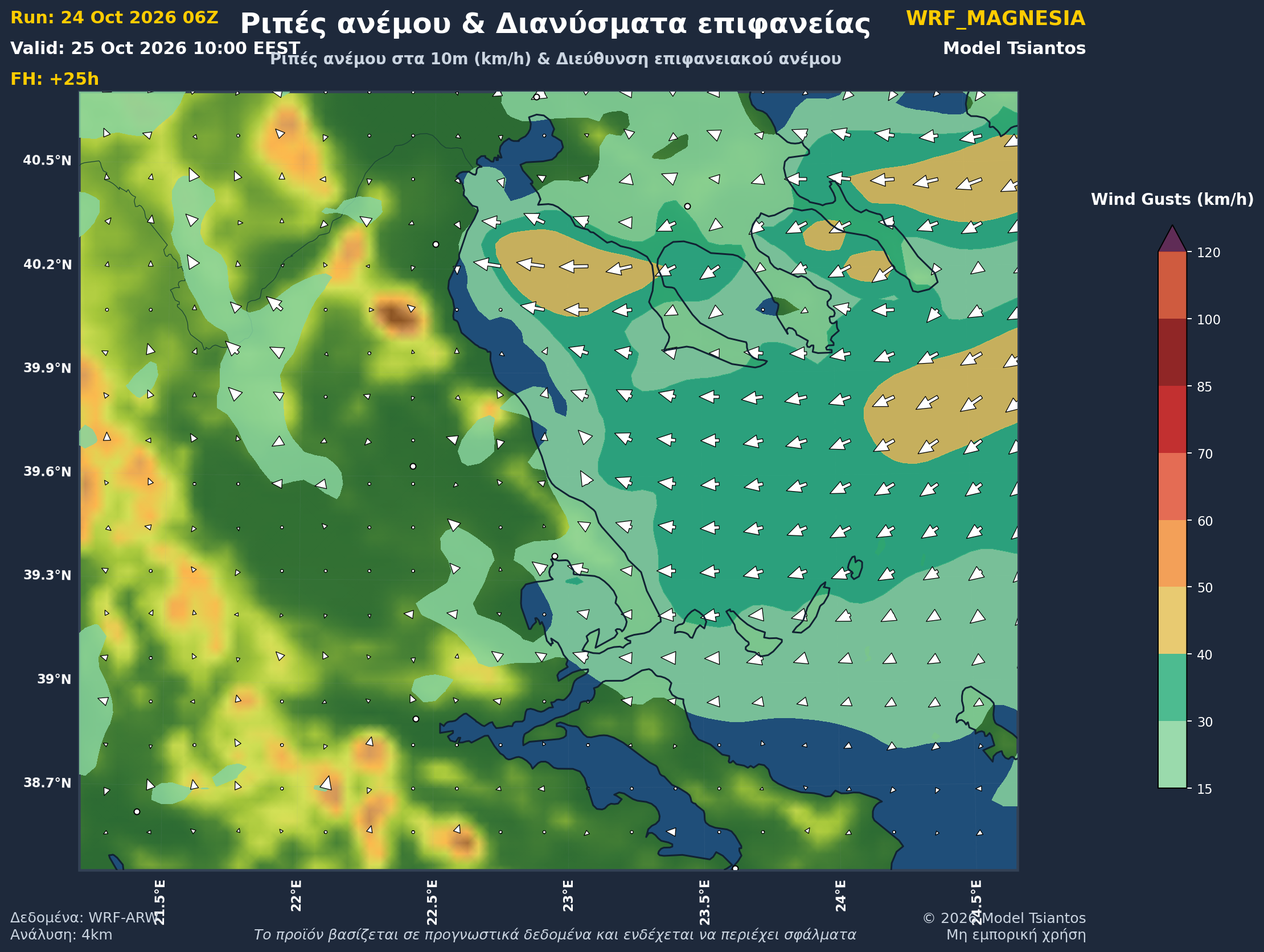
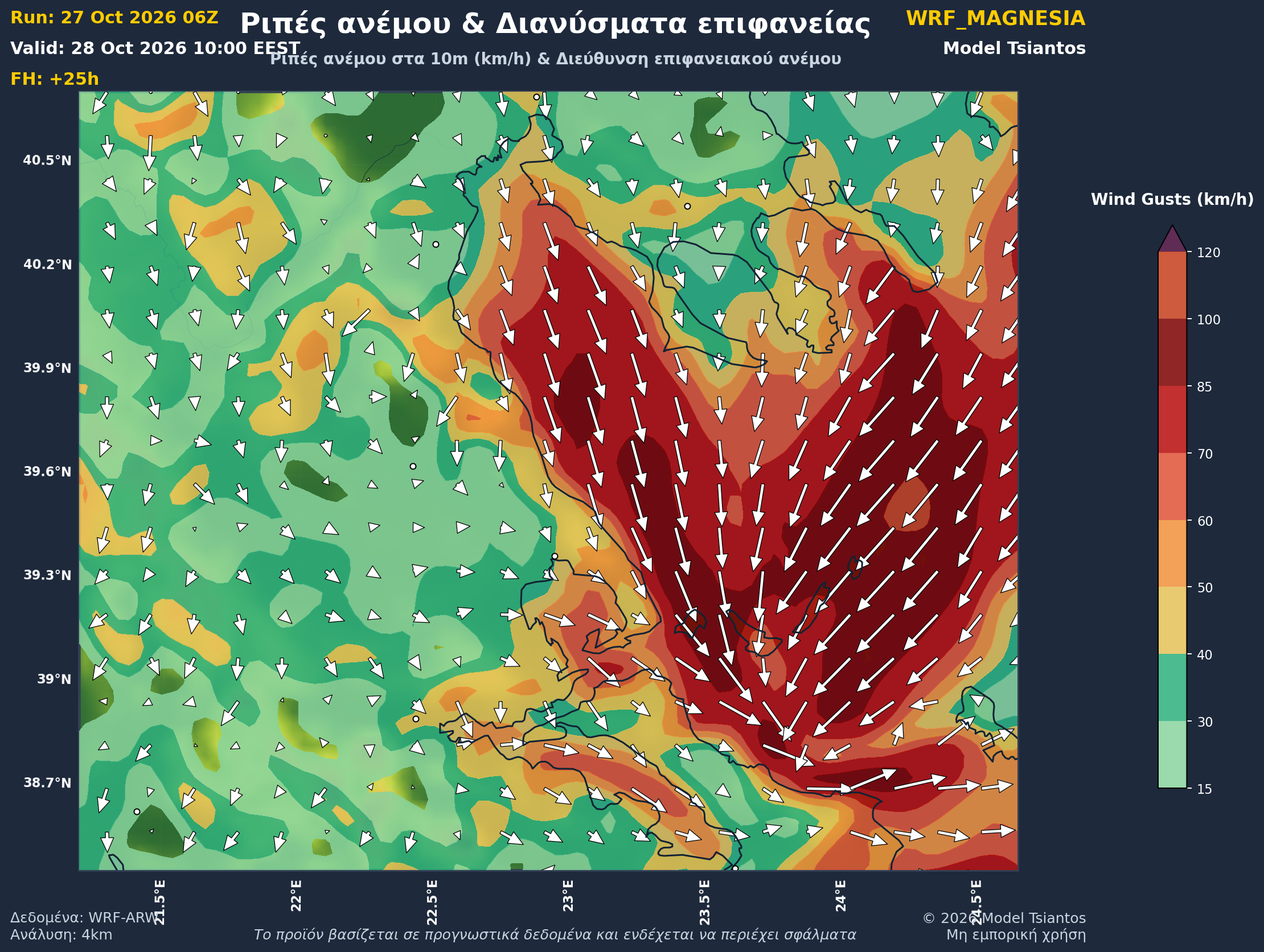
Update all WRF forecast maps

diff --git a/index.html b/index.html
@@ -485,7 +485,7 @@ const tabs=Array.from(document.querySelectorAll(".tab"));
 const title=document.getElementById("mapTitle"),validTime=document.getElementById("validTime"),slider=document.getElementById("hourSlider"),prev=document.getElementById("prevBtn"),next=document.getElementById("nextBtn"),placeholder=document.getElementById("mapPlaceholder"),image=document.getElementById("mapImage"),caption=document.getElementById("mapCaption"),statusText=document.getElementById("statusText");
 // Στο επόμενο βήμα θα βάλουμε εδώ τις δημόσιες διευθύνσεις των πραγματικών εικόνων WRF.
 // Παράδειγμα: rain:[{hour:0,url:"maps/rain_fh00.png",label:"..."}]
-const maps={"temp":[{"hour":23,"url":"maps/temp/Temp2m_LandRelief_FH23h.png","label":"+23 ώρες","valid":"Πρόγνωση +23 h","caption":"WRF MAGNESIA — +23 ώρες"},{"hour":24,"url":"maps/temp/Temp2m_LandRelief_FH24h.png","label":"+24 ώρες","valid":"Πρόγνωση +24 h","caption":"WRF MAGNESIA — +24 ώρες"},{"hour":25,"url":"maps/temp/Temp2m_LandRelief_FH25h.png","label":"+25 ώρες","valid":"Πρόγνωση +25 h","caption":"WRF MAGNESIA — +25 ώρες"},{"hour":26,"url":"maps/temp/Temp2m_LandRelief_FH26h.png","label":"+26 ώρες","valid":"Πρόγνωση +26 h","caption":"WRF MAGNESIA — +26 ώρες"},{"hour":27,"url":"maps/temp/Temp2m_LandRelief_FH27h.png","label":"+27 ώρες","valid":"Πρόγνωση +27 h","caption":"WRF MAGNESIA — +27 ώρες"},{"hour":28,"url":"maps/temp/Temp2m_LandRelief_FH28h.png","label":"+28 ώρες","valid":"Πρόγνωση +28 h","caption":"WRF MAGNESIA — +28 ώρες"},{"hour":29,"url":"maps/temp/Temp2m_LandRelief_FH29h.png","label":"+29 ώρες","valid":"Πρόγνωση +29 h","caption":"WRF MAGNESIA — +29 ώρες"},{"hour":30,"url":"maps/temp/Temp2m_LandRelief_FH30h.png","label":"+30 ώρες","valid":"Πρόγνωση +30 h","caption":"WRF MAGNESIA — +30 ώρες"},{"hour":31,"url":"maps/temp/Temp2m_LandRelief_FH31h.png","label":"+31 ώρες","valid":"Πρόγνωση +31 h","caption":"WRF MAGNESIA — +31 ώρες"},{"hour":32,"url":"maps/temp/Temp2m_LandRelief_FH32h.png","label":"+32 ώρες","valid":"Πρόγνωση +32 h","caption":"WRF MAGNESIA — +32 ώρες"},{"hour":33,"url":"maps/temp/Temp2m_LandRelief_FH33h.png","label":"+33 ώρες","valid":"Πρόγνωση +33 h","caption":"WRF MAGNESIA — +33 ώρες"},{"hour":34,"url":"maps/temp/Temp2m_LandRelief_FH34h.png","label":"+34 ώρες","valid":"Πρόγνωση +34 h","caption":"WRF MAGNESIA — +34 ώρες"},{"hour":35,"url":"maps/temp/Temp2m_LandRelief_FH35h.png","label":"+35 ώρες","valid":"Πρόγνωση +35 h","caption":"WRF MAGNESIA — +35 ώρες"},{"hour":36,"url":"maps/temp/Temp2m_LandRelief_FH36h.png","label":"+36 ώρες","valid":"Πρόγνωση +36 h","caption":"WRF MAGNESIA — +36 ώρες"},{"hour":37,"url":"maps/temp/Temp2m_LandRelief_FH37h.png","label":"+37 ώρες","valid":"Πρόγνωση +37 h","caption":"WRF MAGNESIA — +37 ώρες"},{"hour":38,"url":"maps/temp/Temp2m_LandRelief_FH38h.png","label":"+38 ώρες","valid":"Πρόγνωση +38 h","caption":"WRF MAGNESIA — +38 ώρες"},{"hour":39,"url":"maps/temp/Temp2m_LandRelief_FH39h.png","label":"+39 ώρες","valid":"Πρόγνωση +39 h","caption":"WRF MAGNESIA — +39 ώρες"},{"hour":40,"url":"maps/temp/Temp2m_LandRelief_FH40h.png","label":"+40 ώρες","valid":"Πρόγνωση +40 h","caption":"WRF MAGNESIA — +40 ώρες"},{"hour":41,"url":"maps/temp/Temp2m_LandRelief_FH41h.png","label":"+41 ώρες","valid":"Πρόγνωση +41 h","caption":"WRF MAGNESIA — +41 ώρες"},{"hour":42,"url":"maps/temp/Temp2m_LandRelief_FH42h.png","label":"+42 ώρες","valid":"Πρόγνωση +42 h","caption":"WRF MAGNESIA — +42 ώρες"},{"hour":43,"url":"maps/temp/Temp2m_LandRelief_FH43h.png","label":"+43 ώρες","valid":"Πρόγνωση +43 h","caption":"WRF MAGNESIA — +43 ώρες"},{"hour":44,"url":"maps/temp/Temp2m_LandRelief_FH44h.png","label":"+44 ώρες","valid":"Πρόγνωση +44 h","caption":"WRF MAGNESIA — +44 ώρες"}],"wind":[],"cloud":[{"hour":0,"url":"maps/cloud/Magnesia_Meteologix_2026-10-28_05-00-00.png","label":"2026-10-28 05:00","valid":"2026-10-28 05:00","caption":"WRF MAGNESIA — 2026-10-28 05:00"},{"hour":1,"url":"maps/cloud/Magnesia_Meteologix_2026-10-28_06-00-00.png","label":"2026-10-28 06:00","valid":"2026-10-28 06:00","caption":"WRF MAGNESIA — 2026-10-28 06:00"},{"hour":2,"url":"maps/cloud/Magnesia_Meteologix_2026-10-28_07-00-00.png","label":"2026-10-28 07:00","valid":"2026-10-28 07:00","caption":"WRF MAGNESIA — 2026-10-28 07:00"},{"hour":3,"url":"maps/cloud/Magnesia_Meteologix_2026-10-28_08-00-00.png","label":"2026-10-28 08:00","valid":"2026-10-28 08:00","caption":"WRF MAGNESIA — 2026-10-28 08:00"},{"hour":4,"url":"maps/cloud/Magnesia_Meteologix_2026-10-28_09-00-00.png","label":"2026-10-28 09:00","valid":"2026-10-28 09:00","caption":"WRF MAGNESIA — 2026-10-28 09:00"},{"hour":5,"url":"maps/cloud/Magnesia_Meteologix_2026-10-28_10-00-00.png","label":"2026-10-28 10:00","valid":"2026-10-28 10:00","caption":"WRF MAGNESIA — 2026-10-28 10:00"},{"hour":6,"url":"maps/cloud/Magnesia_Meteologix_2026-10-28_11-00-00.png","label":"2026-10-28 11:00","valid":"2026-10-28 11:00","caption":"WRF MAGNESIA — 2026-10-28 11:00"},{"hour":7,"url":"maps/cloud/Magnesia_Meteologix_2026-10-28_12-00-00.png","label":"2026-10-28 12:00","valid":"2026-10-28 12:00","caption":"WRF MAGNESIA — 2026-10-28 12:00"},{"hour":8,"url":"maps/cloud/Magnesia_Meteologix_2026-10-28_13-00-00.png","label":"2026-10-28 13:00","valid":"2026-10-28 13:00","caption":"WRF MAGNESIA — 2026-10-28 13:00"},{"hour":9,"url":"maps/cloud/Magnesia_Meteologix_2026-10-28_14-00-00.png","label":"2026-10-28 14:00","valid":"2026-10-28 14:00","caption":"WRF MAGNESIA — 2026-10-28 14:00"},{"hour":10,"url":"maps/cloud/Magnesia_Meteologix_2026-10-28_15-00-00.png","label":"2026-10-28 15:00","valid":"2026-10-28 15:00","caption":"WRF MAGNESIA — 2026-10-28 15:00"},{"hour":11,"url":"maps/cloud/Magnesia_Meteologix_2026-10-28_16-00-00.png","label":"2026-10-28 16:00","valid":"2026-10-28 16:00","caption":"WRF MAGNESIA — 2026-10-28 16:00"},{"hour":12,"url":"maps/cloud/Magnesia_Meteologix_2026-10-28_17-00-00.png","label":"2026-10-28 17:00","valid":"2026-10-28 17:00","caption":"WRF MAGNESIA — 2026-10-28 17:00"},{"hour":13,"url":"maps/cloud/Magnesia_Meteologix_2026-10-28_18-00-00.png","label":"2026-10-28 18:00","valid":"2026-10-28 18:00","caption":"WRF MAGNESIA — 2026-10-28 18:00"},{"hour":14,"url":"maps/cloud/Magnesia_Meteologix_2026-10-28_19-00-00.png","label":"2026-10-28 19:00","valid":"2026-10-28 19:00","caption":"WRF MAGNESIA — 2026-10-28 19:00"},{"hour":15,"url":"maps/cloud/Magnesia_Meteologix_2026-10-28_20-00-00.png","label":"2026-10-28 20:00","valid":"2026-10-28 20:00","caption":"WRF MAGNESIA — 2026-10-28 20:00"},{"hour":16,"url":"maps/cloud/Magnesia_Meteologix_2026-10-28_21-00-00.png","label":"2026-10-28 21:00","valid":"2026-10-28 21:00","caption":"WRF MAGNESIA — 2026-10-28 21:00"},{"hour":17,"url":"maps/cloud/Magnesia_Meteologix_2026-10-28_22-00-00.png","label":"2026-10-28 22:00","valid":"2026-10-28 22:00","caption":"WRF MAGNESIA — 2026-10-28 22:00"},{"hour":18,"url":"maps/cloud/Magnesia_Meteologix_2026-10-28_23-00-00.png","label":"2026-10-28 23:00","valid":"2026-10-28 23:00","caption":"WRF MAGNESIA — 2026-10-28 23:00"},{"hour":19,"url":"maps/cloud/Magnesia_Meteologix_2026-10-29_00-00-00.png","label":"2026-10-29 00:00","valid":"2026-10-29 00:00","caption":"WRF MAGNESIA — 2026-10-29 00:00"},{"hour":20,"url":"maps/cloud/Magnesia_Meteologix_2026-10-29_01-00-00.png","label":"2026-10-29 01:00","valid":"2026-10-29 01:00","caption":"WRF MAGNESIA — 2026-10-29 01:00"},{"hour":21,"url":"maps/cloud/Magnesia_Meteologix_2026-10-29_02-00-00.png","label":"2026-10-29 02:00","valid":"2026-10-29 02:00","caption":"WRF MAGNESIA — 2026-10-29 02:00"}],"rain":[],"snow":[{"hour":0,"url":"maps/snow/Magnesia_Snow_20261027_0800.png","label":"2026-10-27 08:00","valid":"2026-10-27 08:00","caption":"WRF MAGNESIA — 2026-10-27 08:00"},{"hour":1,"url":"maps/snow/Magnesia_Snow_20261027_0900.png","label":"2026-10-27 09:00","valid":"2026-10-27 09:00","caption":"WRF MAGNESIA — 2026-10-27 09:00"},{"hour":2,"url":"maps/snow/Magnesia_Snow_20261027_1000.png","label":"2026-10-27 10:00","valid":"2026-10-27 10:00","caption":"WRF MAGNESIA — 2026-10-27 10:00"},{"hour":3,"url":"maps/snow/Magnesia_Snow_20261027_1100.png","label":"2026-10-27 11:00","valid":"2026-10-27 11:00","caption":"WRF MAGNESIA — 2026-10-27 11:00"},{"hour":4,"url":"maps/snow/Magnesia_Snow_20261027_1200.png","label":"2026-10-27 12:00","valid":"2026-10-27 12:00","caption":"WRF MAGNESIA — 2026-10-27 12:00"},{"hour":5,"url":"maps/snow/Magnesia_Snow_20261027_1300.png","label":"2026-10-27 13:00","valid":"2026-10-27 13:00","caption":"WRF MAGNESIA — 2026-10-27 13:00"},{"hour":6,"url":"maps/snow/Magnesia_Snow_20261027_1400.png","label":"2026-10-27 14:00","valid":"2026-10-27 14:00","caption":"WRF MAGNESIA — 2026-10-27 14:00"},{"hour":7,"url":"maps/snow/Magnesia_Snow_20261027_1500.png","label":"2026-10-27 15:00","valid":"2026-10-27 15:00","caption":"WRF MAGNESIA — 2026-10-27 15:00"},{"hour":8,"url":"maps/snow/Magnesia_Snow_20261027_1600.png","label":"2026-10-27 16:00","valid":"2026-10-27 16:00","caption":"WRF MAGNESIA — 2026-10-27 16:00"},{"hour":9,"url":"maps/snow/Magnesia_Snow_20261027_1700.png","label":"2026-10-27 17:00","valid":"2026-10-27 17:00","caption":"WRF MAGNESIA — 2026-10-27 17:00"},{"hour":10,"url":"maps/snow/Magnesia_Snow_20261027_1800.png","label":"2026-10-27 18:00","valid":"2026-10-27 18:00","caption":"WRF MAGNESIA — 2026-10-27 18:00"},{"hour":11,"url":"maps/snow/Magnesia_Snow_20261027_1900.png","label":"2026-10-27 19:00","valid":"2026-10-27 19:00","caption":"WRF MAGNESIA — 2026-10-27 19:00"},{"hour":12,"url":"maps/snow/Magnesia_Snow_20261027_2000.png","label":"2026-10-27 20:00","valid":"2026-10-27 20:00","caption":"WRF MAGNESIA — 2026-10-27 20:00"},{"hour":13,"url":"maps/snow/Magnesia_Snow_20261027_2100.png","label":"2026-10-27 21:00","valid":"2026-10-27 21:00","caption":"WRF MAGNESIA — 2026-10-27 21:00"},{"hour":14,"url":"maps/snow/Magnesia_Snow_20261027_2200.png","label":"2026-10-27 22:00","valid":"2026-10-27 22:00","caption":"WRF MAGNESIA — 2026-10-27 22:00"},{"hour":15,"url":"maps/snow/Magnesia_Snow_20261027_2300.png","label":"2026-10-27 23:00","valid":"2026-10-27 23:00","caption":"WRF MAGNESIA — 2026-10-27 23:00"},{"hour":16,"url":"maps/snow/Magnesia_Snow_20261028_0000.png","label":"2026-10-28 00:00","valid":"2026-10-28 00:00","caption":"WRF MAGNESIA — 2026-10-28 00:00"},{"hour":17,"url":"maps/snow/Magnesia_Snow_20261028_0100.png","label":"2026-10-28 01:00","valid":"2026-10-28 01:00","caption":"WRF MAGNESIA — 2026-10-28 01:00"},{"hour":18,"url":"maps/snow/Magnesia_Snow_20261028_0200.png","label":"2026-10-28 02:00","valid":"2026-10-28 02:00","caption":"WRF MAGNESIA — 2026-10-28 02:00"},{"hour":19,"url":"maps/snow/Magnesia_Snow_20261028_0300.png","label":"2026-10-28 03:00","valid":"2026-10-28 03:00","caption":"WRF MAGNESIA — 2026-10-28 03:00"},{"hour":20,"url":"maps/snow/Magnesia_Snow_20261028_0400.png","label":"2026-10-28 04:00","valid":"2026-10-28 04:00","caption":"WRF MAGNESIA — 2026-10-28 04:00"},{"hour":21,"url":"maps/snow/Magnesia_Snow_20261028_0500.png","label":"2026-10-28 05:00","valid":"2026-10-28 05:00","caption":"WRF MAGNESIA — 2026-10-28 05:00"},{"hour":22,"url":"maps/snow/Magnesia_Snow_20261028_0600.png","label":"2026-10-28 06:00","valid":"2026-10-28 06:00","caption":"WRF MAGNESIA — 2026-10-28 06:00"},{"hour":23,"url":"maps/snow/Magnesia_Snow_20261028_0700.png","label":"2026-10-28 07:00","valid":"2026-10-28 07:00","caption":"WRF MAGNESIA — 2026-10-28 07:00"},{"hour":24,"url":"maps/snow/Magnesia_Snow_20261028_0800.png","label":"2026-10-28 08:00","valid":"2026-10-28 08:00","caption":"WRF MAGNESIA — 2026-10-28 08:00"}],"meteograms":[{"hour":0,"url":"maps/meteograms/Meteogram_Αλμυρός.png","label":"Αλμυρός","valid":"Αλμυρός","caption":"WRF MAGNESIA — Αλμυρός"},{"hour":1,"url":"maps/meteograms/Meteogram_Ανάβρα.png","label":"Ανάβρα","valid":"Ανάβρα","caption":"WRF MAGNESIA — Ανάβρα"},{"hour":2,"url":"maps/meteograms/Meteogram_Αργαλαστή.png","label":"Αργαλαστή","valid":"Αργαλαστή","caption":"WRF MAGNESIA — Αργαλαστή"},{"hour":3,"url":"maps/meteograms/Meteogram_Βόλος.png","label":"Βόλος","valid":"Βόλος","caption":"WRF MAGNESIA — Βόλος"},{"hour":4,"url":"maps/meteograms/Meteogram_Ζαγορά.png","label":"Ζαγορά","valid":"Ζαγορά","caption":"WRF MAGNESIA — Ζαγορά"},{"hour":5,"url":"maps/meteograms/Meteogram_Κωφοί_Μαγνησίας.png","label":"Κωφοί Μαγνησίας","valid":"Κωφοί Μαγνησίας","caption":"WRF MAGNESIA — Κωφοί Μαγνησίας"},{"hour":6,"url":"maps/meteograms/Meteogram_Σούρπη.png","label":"Σούρπη","valid":"Σούρπη","caption":"WRF MAGNESIA — Σούρπη"},{"hour":7,"url":"maps/meteograms/Meteogram_Όθρυς.png","label":"Όθρυς","valid":"Όθρυς","caption":"WRF MAGNESIA — Όθρυς"}],"storms":[],"profiles":[{"hour":0,"url":"maps/profiles/kofos_vertical_advanced_v4_4_gfs_direct.png","label":"Κωφοί — κατακόρυφο προφίλ","valid":"Κωφοί — κατακόρυφο προφίλ","caption":"WRF MAGNESIA — Κωφοί — κατακόρυφο προφίλ"}],"local-forecast":[{"hour":0,"url":"maps/local-forecast/forecast_almyros.png","label":"almyros","valid":"almyros","caption":"WRF MAGNESIA — almyros"},{"hour":1,"url":"maps/local-forecast/forecast_anchialos.png","label":"anchialos","valid":"anchialos","caption":"WRF MAGNESIA — anchialos"},{"hour":2,"url":"maps/local-forecast/forecast_argalasti.png","label":"argalasti","valid":"argalasti","caption":"WRF MAGNESIA — argalasti"},{"hour":3,"url":"maps/local-forecast/forecast_kofoi.png","label":"kofoi","valid":"kofoi","caption":"WRF MAGNESIA — kofoi"},{"hour":4,"url":"maps/local-forecast/forecast_othrys.png","label":"othrys","valid":"othrys","caption":"WRF MAGNESIA — othrys"},{"hour":5,"url":"maps/local-forecast/forecast_sourpi.png","label":"sourpi","valid":"sourpi","caption":"WRF MAGNESIA — sourpi"},{"hour":6,"url":"maps/local-forecast/forecast_velestino.png","label":"velestino","valid":"velestino","caption":"WRF MAGNESIA — velestino"},{"hour":7,"url":"maps/local-forecast/forecast_volos.png","label":"volos","valid":"volos","caption":"WRF MAGNESIA — volos"},{"hour":8,"url":"maps/local-forecast/forecast_zagora.png","label":"zagora","valid":"zagora","caption":"WRF MAGNESIA — zagora"}],"national-rain":[]};
+const maps={"temp":[{"hour":23,"url":"maps/temp/Temp2m_LandRelief_FH23h.png","label":"+23 ώρες","valid":"Πρόγνωση +23 h","caption":"WRF MAGNESIA — +23 ώρες"},{"hour":24,"url":"maps/temp/Temp2m_LandRelief_FH24h.png","label":"+24 ώρες","valid":"Πρόγνωση +24 h","caption":"WRF MAGNESIA — +24 ώρες"},{"hour":25,"url":"maps/temp/Temp2m_LandRelief_FH25h.png","label":"+25 ώρες","valid":"Πρόγνωση +25 h","caption":"WRF MAGNESIA — +25 ώρες"},{"hour":26,"url":"maps/temp/Temp2m_LandRelief_FH26h.png","label":"+26 ώρες","valid":"Πρόγνωση +26 h","caption":"WRF MAGNESIA — +26 ώρες"},{"hour":27,"url":"maps/temp/Temp2m_LandRelief_FH27h.png","label":"+27 ώρες","valid":"Πρόγνωση +27 h","caption":"WRF MAGNESIA — +27 ώρες"},{"hour":28,"url":"maps/temp/Temp2m_LandRelief_FH28h.png","label":"+28 ώρες","valid":"Πρόγνωση +28 h","caption":"WRF MAGNESIA — +28 ώρες"},{"hour":29,"url":"maps/temp/Temp2m_LandRelief_FH29h.png","label":"+29 ώρες","valid":"Πρόγνωση +29 h","caption":"WRF MAGNESIA — +29 ώρες"},{"hour":30,"url":"maps/temp/Temp2m_LandRelief_FH30h.png","label":"+30 ώρες","valid":"Πρόγνωση +30 h","caption":"WRF MAGNESIA — +30 ώρες"},{"hour":31,"url":"maps/temp/Temp2m_LandRelief_FH31h.png","label":"+31 ώρες","valid":"Πρόγνωση +31 h","caption":"WRF MAGNESIA — +31 ώρες"},{"hour":32,"url":"maps/temp/Temp2m_LandRelief_FH32h.png","label":"+32 ώρες","valid":"Πρόγνωση +32 h","caption":"WRF MAGNESIA — +32 ώρες"},{"hour":33,"url":"maps/temp/Temp2m_LandRelief_FH33h.png","label":"+33 ώρες","valid":"Πρόγνωση +33 h","caption":"WRF MAGNESIA — +33 ώρες"},{"hour":34,"url":"maps/temp/Temp2m_LandRelief_FH34h.png","label":"+34 ώρες","valid":"Πρόγνωση +34 h","caption":"WRF MAGNESIA — +34 ώρες"},{"hour":35,"url":"maps/temp/Temp2m_LandRelief_FH35h.png","label":"+35 ώρες","valid":"Πρόγνωση +35 h","caption":"WRF MAGNESIA — +35 ώρες"},{"hour":36,"url":"maps/temp/Temp2m_LandRelief_FH36h.png","label":"+36 ώρες","valid":"Πρόγνωση +36 h","caption":"WRF MAGNESIA — +36 ώρες"},{"hour":37,"url":"maps/temp/Temp2m_LandRelief_FH37h.png","label":"+37 ώρες","valid":"Πρόγνωση +37 h","caption":"WRF MAGNESIA — +37 ώρες"},{"hour":38,"url":"maps/temp/Temp2m_LandRelief_FH38h.png","label":"+38 ώρες","valid":"Πρόγνωση +38 h","caption":"WRF MAGNESIA — +38 ώρες"},{"hour":39,"url":"maps/temp/Temp2m_LandRelief_FH39h.png","label":"+39 ώρες","valid":"Πρόγνωση +39 h","caption":"WRF MAGNESIA — +39 ώρες"},{"hour":40,"url":"maps/temp/Temp2m_LandRelief_FH40h.png","label":"+40 ώρες","valid":"Πρόγνωση +40 h","caption":"WRF MAGNESIA — +40 ώρες"},{"hour":41,"url":"maps/temp/Temp2m_LandRelief_FH41h.png","label":"+41 ώρες","valid":"Πρόγνωση +41 h","caption":"WRF MAGNESIA — +41 ώρες"},{"hour":42,"url":"maps/temp/Temp2m_LandRelief_FH42h.png","label":"+42 ώρες","valid":"Πρόγνωση +42 h","caption":"WRF MAGNESIA — +42 ώρες"},{"hour":43,"url":"maps/temp/Temp2m_LandRelief_FH43h.png","label":"+43 ώρες","valid":"Πρόγνωση +43 h","caption":"WRF MAGNESIA — +43 ώρες"},{"hour":44,"url":"maps/temp/Temp2m_LandRelief_FH44h.png","label":"+44 ώρες","valid":"Πρόγνωση +44 h","caption":"WRF MAGNESIA — +44 ώρες"}],"wind":[{"hour":22,"url":"maps/wind/WindGust_Meteologix_FH22h.png","label":"+22 ώρες","valid":"Πρόγνωση +22 h","caption":"WRF MAGNESIA — +22 ώρες"},{"hour":23,"url":"maps/wind/WindGust_Meteologix_FH23h.png","label":"+23 ώρες","valid":"Πρόγνωση +23 h","caption":"WRF MAGNESIA — +23 ώρες"},{"hour":24,"url":"maps/wind/WindGust_Meteologix_FH24h.png","label":"+24 ώρες","valid":"Πρόγνωση +24 h","caption":"WRF MAGNESIA — +24 ώρες"},{"hour":25,"url":"maps/wind/WindGust_Meteologix_FH25h.png","label":"+25 ώρες","valid":"Πρόγνωση +25 h","caption":"WRF MAGNESIA — +25 ώρες"},{"hour":26,"url":"maps/wind/WindGust_Meteologix_FH26h.png","label":"+26 ώρες","valid":"Πρόγνωση +26 h","caption":"WRF MAGNESIA — +26 ώρες"},{"hour":27,"url":"maps/wind/WindGust_Meteologix_FH27h.png","label":"+27 ώρες","valid":"Πρόγνωση +27 h","caption":"WRF MAGNESIA — +27 ώρες"},{"hour":28,"url":"maps/wind/WindGust_Meteologix_FH28h.png","label":"+28 ώρες","valid":"Πρόγνωση +28 h","caption":"WRF MAGNESIA — +28 ώρες"},{"hour":29,"url":"maps/wind/WindGust_Meteologix_FH29h.png","label":"+29 ώρες","valid":"Πρόγνωση +29 h","caption":"WRF MAGNESIA — +29 ώρες"},{"hour":30,"url":"maps/wind/WindGust_Meteologix_FH30h.png","label":"+30 ώρες","valid":"Πρόγνωση +30 h","caption":"WRF MAGNESIA — +30 ώρες"},{"hour":31,"url":"maps/wind/WindGust_Meteologix_FH31h.png","label":"+31 ώρες","valid":"Πρόγνωση +31 h","caption":"WRF MAGNESIA — +31 ώρες"},{"hour":32,"url":"maps/wind/WindGust_Meteologix_FH32h.png","label":"+32 ώρες","valid":"Πρόγνωση +32 h","caption":"WRF MAGNESIA — +32 ώρες"},{"hour":33,"url":"maps/wind/WindGust_Meteologix_FH33h.png","label":"+33 ώρες","valid":"Πρόγνωση +33 h","caption":"WRF MAGNESIA — +33 ώρες"},{"hour":34,"url":"maps/wind/WindGust_Meteologix_FH34h.png","label":"+34 ώρες","valid":"Πρόγνωση +34 h","caption":"WRF MAGNESIA — +34 ώρες"},{"hour":35,"url":"maps/wind/WindGust_Meteologix_FH35h.png","label":"+35 ώρες","valid":"Πρόγνωση +35 h","caption":"WRF MAGNESIA — +35 ώρες"},{"hour":36,"url":"maps/wind/WindGust_Meteologix_FH36h.png","label":"+36 ώρες","valid":"Πρόγνωση +36 h","caption":"WRF MAGNESIA — +36 ώρες"},{"hour":37,"url":"maps/wind/WindGust_Meteologix_FH37h.png","label":"+37 ώρες","valid":"Πρόγνωση +37 h","caption":"WRF MAGNESIA — +37 ώρες"},{"hour":38,"url":"maps/wind/WindGust_Meteologix_FH38h.png","label":"+38 ώρες","valid":"Πρόγνωση +38 h","caption":"WRF MAGNESIA — +38 ώρες"},{"hour":39,"url":"maps/wind/WindGust_Meteologix_FH39h.png","label":"+39 ώρες","valid":"Πρόγνωση +39 h","caption":"WRF MAGNESIA — +39 ώρες"},{"hour":40,"url":"maps/wind/WindGust_Meteologix_FH40h.png","label":"+40 ώρες","valid":"Πρόγνωση +40 h","caption":"WRF MAGNESIA — +40 ώρες"},{"hour":41,"url":"maps/wind/WindGust_Meteologix_FH41h.png","label":"+41 ώρες","valid":"Πρόγνωση +41 h","caption":"WRF MAGNESIA — +41 ώρες"},{"hour":42,"url":"maps/wind/WindGust_Meteologix_FH42h.png","label":"+42 ώρες","valid":"Πρόγνωση +42 h","caption":"WRF MAGNESIA — +42 ώρες"},{"hour":43,"url":"maps/wind/WindGust_Meteologix_FH43h.png","label":"+43 ώρες","valid":"Πρόγνωση +43 h","caption":"WRF MAGNESIA — +43 ώρες"},{"hour":44,"url":"maps/wind/WindGust_Meteologix_FH44h.png","label":"+44 ώρες","valid":"Πρόγνωση +44 h","caption":"WRF MAGNESIA — +44 ώρες"}],"cloud":[{"hour":0,"url":"maps/cloud/Magnesia_Meteologix_2026-10-28_05-00-00.png","label":"2026-10-28 05:00","valid":"2026-10-28 05:00","caption":"WRF MAGNESIA — 2026-10-28 05:00"},{"hour":1,"url":"maps/cloud/Magnesia_Meteologix_2026-10-28_06-00-00.png","label":"2026-10-28 06:00","valid":"2026-10-28 06:00","caption":"WRF MAGNESIA — 2026-10-28 06:00"},{"hour":2,"url":"maps/cloud/Magnesia_Meteologix_2026-10-28_07-00-00.png","label":"2026-10-28 07:00","valid":"2026-10-28 07:00","caption":"WRF MAGNESIA — 2026-10-28 07:00"},{"hour":3,"url":"maps/cloud/Magnesia_Meteologix_2026-10-28_08-00-00.png","label":"2026-10-28 08:00","valid":"2026-10-28 08:00","caption":"WRF MAGNESIA — 2026-10-28 08:00"},{"hour":4,"url":"maps/cloud/Magnesia_Meteologix_2026-10-28_09-00-00.png","label":"2026-10-28 09:00","valid":"2026-10-28 09:00","caption":"WRF MAGNESIA — 2026-10-28 09:00"},{"hour":5,"url":"maps/cloud/Magnesia_Meteologix_2026-10-28_10-00-00.png","label":"2026-10-28 10:00","valid":"2026-10-28 10:00","caption":"WRF MAGNESIA — 2026-10-28 10:00"},{"hour":6,"url":"maps/cloud/Magnesia_Meteologix_2026-10-28_11-00-00.png","label":"2026-10-28 11:00","valid":"2026-10-28 11:00","caption":"WRF MAGNESIA — 2026-10-28 11:00"},{"hour":7,"url":"maps/cloud/Magnesia_Meteologix_2026-10-28_12-00-00.png","label":"2026-10-28 12:00","valid":"2026-10-28 12:00","caption":"WRF MAGNESIA — 2026-10-28 12:00"},{"hour":8,"url":"maps/cloud/Magnesia_Meteologix_2026-10-28_13-00-00.png","label":"2026-10-28 13:00","valid":"2026-10-28 13:00","caption":"WRF MAGNESIA — 2026-10-28 13:00"},{"hour":9,"url":"maps/cloud/Magnesia_Meteologix_2026-10-28_14-00-00.png","label":"2026-10-28 14:00","valid":"2026-10-28 14:00","caption":"WRF MAGNESIA — 2026-10-28 14:00"},{"hour":10,"url":"maps/cloud/Magnesia_Meteologix_2026-10-28_15-00-00.png","label":"2026-10-28 15:00","valid":"2026-10-28 15:00","caption":"WRF MAGNESIA — 2026-10-28 15:00"},{"hour":11,"url":"maps/cloud/Magnesia_Meteologix_2026-10-28_16-00-00.png","label":"2026-10-28 16:00","valid":"2026-10-28 16:00","caption":"WRF MAGNESIA — 2026-10-28 16:00"},{"hour":12,"url":"maps/cloud/Magnesia_Meteologix_2026-10-28_17-00-00.png","label":"2026-10-28 17:00","valid":"2026-10-28 17:00","caption":"WRF MAGNESIA — 2026-10-28 17:00"},{"hour":13,"url":"maps/cloud/Magnesia_Meteologix_2026-10-28_18-00-00.png","label":"2026-10-28 18:00","valid":"2026-10-28 18:00","caption":"WRF MAGNESIA — 2026-10-28 18:00"},{"hour":14,"url":"maps/cloud/Magnesia_Meteologix_2026-10-28_19-00-00.png","label":"2026-10-28 19:00","valid":"2026-10-28 19:00","caption":"WRF MAGNESIA — 2026-10-28 19:00"},{"hour":15,"url":"maps/cloud/Magnesia_Meteologix_2026-10-28_20-00-00.png","label":"2026-10-28 20:00","valid":"2026-10-28 20:00","caption":"WRF MAGNESIA — 2026-10-28 20:00"},{"hour":16,"url":"maps/cloud/Magnesia_Meteologix_2026-10-28_21-00-00.png","label":"2026-10-28 21:00","valid":"2026-10-28 21:00","caption":"WRF MAGNESIA — 2026-10-28 21:00"},{"hour":17,"url":"maps/cloud/Magnesia_Meteologix_2026-10-28_22-00-00.png","label":"2026-10-28 22:00","valid":"2026-10-28 22:00","caption":"WRF MAGNESIA — 2026-10-28 22:00"},{"hour":18,"url":"maps/cloud/Magnesia_Meteologix_2026-10-28_23-00-00.png","label":"2026-10-28 23:00","valid":"2026-10-28 23:00","caption":"WRF MAGNESIA — 2026-10-28 23:00"},{"hour":19,"url":"maps/cloud/Magnesia_Meteologix_2026-10-29_00-00-00.png","label":"2026-10-29 00:00","valid":"2026-10-29 00:00","caption":"WRF MAGNESIA — 2026-10-29 00:00"},{"hour":20,"url":"maps/cloud/Magnesia_Meteologix_2026-10-29_01-00-00.png","label":"2026-10-29 01:00","valid":"2026-10-29 01:00","caption":"WRF MAGNESIA — 2026-10-29 01:00"},{"hour":21,"url":"maps/cloud/Magnesia_Meteologix_2026-10-29_02-00-00.png","label":"2026-10-29 02:00","valid":"2026-10-29 02:00","caption":"WRF MAGNESIA — 2026-10-29 02:00"}],"rain":[],"snow":[{"hour":0,"url":"maps/snow/Magnesia_Snow_20261027_0800.png","label":"2026-10-27 08:00","valid":"2026-10-27 08:00","caption":"WRF MAGNESIA — 2026-10-27 08:00"},{"hour":1,"url":"maps/snow/Magnesia_Snow_20261027_0900.png","label":"2026-10-27 09:00","valid":"2026-10-27 09:00","caption":"WRF MAGNESIA — 2026-10-27 09:00"},{"hour":2,"url":"maps/snow/Magnesia_Snow_20261027_1000.png","label":"2026-10-27 10:00","valid":"2026-10-27 10:00","caption":"WRF MAGNESIA — 2026-10-27 10:00"},{"hour":3,"url":"maps/snow/Magnesia_Snow_20261027_1100.png","label":"2026-10-27 11:00","valid":"2026-10-27 11:00","caption":"WRF MAGNESIA — 2026-10-27 11:00"},{"hour":4,"url":"maps/snow/Magnesia_Snow_20261027_1200.png","label":"2026-10-27 12:00","valid":"2026-10-27 12:00","caption":"WRF MAGNESIA — 2026-10-27 12:00"},{"hour":5,"url":"maps/snow/Magnesia_Snow_20261027_1300.png","label":"2026-10-27 13:00","valid":"2026-10-27 13:00","caption":"WRF MAGNESIA — 2026-10-27 13:00"},{"hour":6,"url":"maps/snow/Magnesia_Snow_20261027_1400.png","label":"2026-10-27 14:00","valid":"2026-10-27 14:00","caption":"WRF MAGNESIA — 2026-10-27 14:00"},{"hour":7,"url":"maps/snow/Magnesia_Snow_20261027_1500.png","label":"2026-10-27 15:00","valid":"2026-10-27 15:00","caption":"WRF MAGNESIA — 2026-10-27 15:00"},{"hour":8,"url":"maps/snow/Magnesia_Snow_20261027_1600.png","label":"2026-10-27 16:00","valid":"2026-10-27 16:00","caption":"WRF MAGNESIA — 2026-10-27 16:00"},{"hour":9,"url":"maps/snow/Magnesia_Snow_20261027_1700.png","label":"2026-10-27 17:00","valid":"2026-10-27 17:00","caption":"WRF MAGNESIA — 2026-10-27 17:00"},{"hour":10,"url":"maps/snow/Magnesia_Snow_20261027_1800.png","label":"2026-10-27 18:00","valid":"2026-10-27 18:00","caption":"WRF MAGNESIA — 2026-10-27 18:00"},{"hour":11,"url":"maps/snow/Magnesia_Snow_20261027_1900.png","label":"2026-10-27 19:00","valid":"2026-10-27 19:00","caption":"WRF MAGNESIA — 2026-10-27 19:00"},{"hour":12,"url":"maps/snow/Magnesia_Snow_20261027_2000.png","label":"2026-10-27 20:00","valid":"2026-10-27 20:00","caption":"WRF MAGNESIA — 2026-10-27 20:00"},{"hour":13,"url":"maps/snow/Magnesia_Snow_20261027_2100.png","label":"2026-10-27 21:00","valid":"2026-10-27 21:00","caption":"WRF MAGNESIA — 2026-10-27 21:00"},{"hour":14,"url":"maps/snow/Magnesia_Snow_20261027_2200.png","label":"2026-10-27 22:00","valid":"2026-10-27 22:00","caption":"WRF MAGNESIA — 2026-10-27 22:00"},{"hour":15,"url":"maps/snow/Magnesia_Snow_20261027_2300.png","label":"2026-10-27 23:00","valid":"2026-10-27 23:00","caption":"WRF MAGNESIA — 2026-10-27 23:00"},{"hour":16,"url":"maps/snow/Magnesia_Snow_20261028_0000.png","label":"2026-10-28 00:00","valid":"2026-10-28 00:00","caption":"WRF MAGNESIA — 2026-10-28 00:00"},{"hour":17,"url":"maps/snow/Magnesia_Snow_20261028_0100.png","label":"2026-10-28 01:00","valid":"2026-10-28 01:00","caption":"WRF MAGNESIA — 2026-10-28 01:00"},{"hour":18,"url":"maps/snow/Magnesia_Snow_20261028_0200.png","label":"2026-10-28 02:00","valid":"2026-10-28 02:00","caption":"WRF MAGNESIA — 2026-10-28 02:00"},{"hour":19,"url":"maps/snow/Magnesia_Snow_20261028_0300.png","label":"2026-10-28 03:00","valid":"2026-10-28 03:00","caption":"WRF MAGNESIA — 2026-10-28 03:00"},{"hour":20,"url":"maps/snow/Magnesia_Snow_20261028_0400.png","label":"2026-10-28 04:00","valid":"2026-10-28 04:00","caption":"WRF MAGNESIA — 2026-10-28 04:00"},{"hour":21,"url":"maps/snow/Magnesia_Snow_20261028_0500.png","label":"2026-10-28 05:00","valid":"2026-10-28 05:00","caption":"WRF MAGNESIA — 2026-10-28 05:00"},{"hour":22,"url":"maps/snow/Magnesia_Snow_20261028_0600.png","label":"2026-10-28 06:00","valid":"2026-10-28 06:00","caption":"WRF MAGNESIA — 2026-10-28 06:00"},{"hour":23,"url":"maps/snow/Magnesia_Snow_20261028_0700.png","label":"2026-10-28 07:00","valid":"2026-10-28 07:00","caption":"WRF MAGNESIA — 2026-10-28 07:00"},{"hour":24,"url":"maps/snow/Magnesia_Snow_20261028_0800.png","label":"2026-10-28 08:00","valid":"2026-10-28 08:00","caption":"WRF MAGNESIA — 2026-10-28 08:00"}],"meteograms":[{"hour":0,"url":"maps/meteograms/Meteogram_Αλμυρός.png","label":"Αλμυρός","valid":"Αλμυρός","caption":"WRF MAGNESIA — Αλμυρός"},{"hour":1,"url":"maps/meteograms/Meteogram_Ανάβρα.png","label":"Ανάβρα","valid":"Ανάβρα","caption":"WRF MAGNESIA — Ανάβρα"},{"hour":2,"url":"maps/meteograms/Meteogram_Αργαλαστή.png","label":"Αργαλαστή","valid":"Αργαλαστή","caption":"WRF MAGNESIA — Αργαλαστή"},{"hour":3,"url":"maps/meteograms/Meteogram_Βόλος.png","label":"Βόλος","valid":"Βόλος","caption":"WRF MAGNESIA — Βόλος"},{"hour":4,"url":"maps/meteograms/Meteogram_Ζαγορά.png","label":"Ζαγορά","valid":"Ζαγορά","caption":"WRF MAGNESIA — Ζαγορά"},{"hour":5,"url":"maps/meteograms/Meteogram_Κωφοί_Μαγνησίας.png","label":"Κωφοί Μαγνησίας","valid":"Κωφοί Μαγνησίας","caption":"WRF MAGNESIA — Κωφοί Μαγνησίας"},{"hour":6,"url":"maps/meteograms/Meteogram_Σούρπη.png","label":"Σούρπη","valid":"Σούρπη","caption":"WRF MAGNESIA — Σούρπη"},{"hour":7,"url":"maps/meteograms/Meteogram_Όθρυς.png","label":"Όθρυς","valid":"Όθρυς","caption":"WRF MAGNESIA — Όθρυς"}],"storms":[],"profiles":[{"hour":0,"url":"maps/profiles/kofos_vertical_advanced_v4_4_gfs_direct.png","label":"Κωφοί — κατακόρυφο προφίλ","valid":"Κωφοί — κατακόρυφο προφίλ","caption":"WRF MAGNESIA — Κωφοί — κατακόρυφο προφίλ"}],"local-forecast":[{"hour":0,"url":"maps/local-forecast/forecast_almyros.png","label":"almyros","valid":"almyros","caption":"WRF MAGNESIA — almyros"},{"hour":1,"url":"maps/local-forecast/forecast_anchialos.png","label":"anchialos","valid":"anchialos","caption":"WRF MAGNESIA — anchialos"},{"hour":2,"url":"maps/local-forecast/forecast_argalasti.png","label":"argalasti","valid":"argalasti","caption":"WRF MAGNESIA — argalasti"},{"hour":3,"url":"maps/local-forecast/forecast_kofoi.png","label":"kofoi","valid":"kofoi","caption":"WRF MAGNESIA — kofoi"},{"hour":4,"url":"maps/local-forecast/forecast_othrys.png","label":"othrys","valid":"othrys","caption":"WRF MAGNESIA — othrys"},{"hour":5,"url":"maps/local-forecast/forecast_sourpi.png","label":"sourpi","valid":"sourpi","caption":"WRF MAGNESIA — sourpi"},{"hour":6,"url":"maps/local-forecast/forecast_velestino.png","label":"velestino","valid":"velestino","caption":"WRF MAGNESIA — velestino"},{"hour":7,"url":"maps/local-forecast/forecast_volos.png","label":"volos","valid":"volos","caption":"WRF MAGNESIA — volos"},{"hour":8,"url":"maps/local-forecast/forecast_zagora.png","label":"zagora","valid":"zagora","caption":"WRF MAGNESIA — zagora"}],"national-rain":[]};
 let activeKind="rain",activeIndex=0;
 function update(){
 const list=maps[activeKind]||[],hasMaps=list.length>0;
